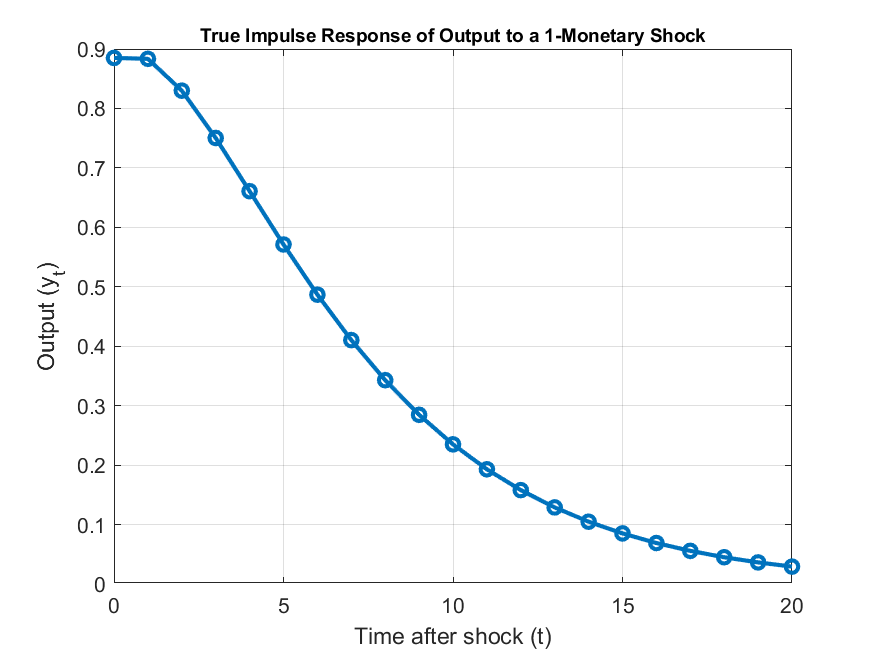
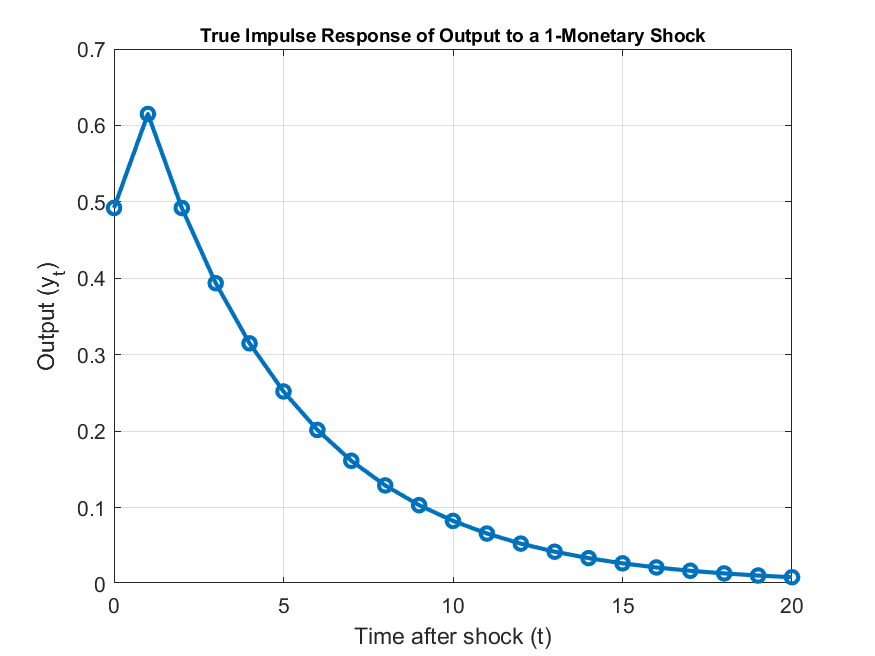
Upated parameters

diff --git a/PS1/ps1_3_misspec_irf.m b/PS1/ps1_3_misspec_irf.m
@@ -1,10 +1,10 @@
 clear all 
 
 % Parameters from previous solutions
-a = 0.701502; % 1.43991; 
-b = 0.262662; % -1.70648; 
-c = 0.885;
-d = 0.115;
+a = 0; %0.701502; % 1.43991; 
+b = 0.615; %0.262662; % -1.70648; 
+c = 0.492; %0.885;
+d = 0.115;  % Not used here since eta_t = 0
 rho = 0.8;
 T = 600; % I will burn the first 100
 N_sim = 500;

diff --git a/PS1/ps1_5_Jorda_cont_irf.m b/PS1/ps1_5_Jorda_cont_irf.m
@@ -1,10 +1,10 @@
 clear all 
 
 % Parameters from previous solutions
-a = 0.701502; % 1.43991; 
-b = 0.262662; % -1.70648; 
-c = 0.885;
-d = 0.115;
+a = 0; %0.701502; % 1.43991; 
+b = 0.615; %0.262662; % -1.70648; 
+c = 0.492; %0.885;
+d = 0.115;  % Not used here since eta_t = 0
 rho = 0.8;
 T = 600; % I will burn the first 100
 N_sim = 500;

diff --git a/PS1/ps1_4_eps6_irf.m b/PS1/ps1_4_eps6_irf.m
@@ -1,10 +1,10 @@
 clear all
 
 % Parameters from previous solutions
-a = 0.701502; % 1.43991; 
-b = 0.262662; % -1.70648; 
-c = 0.885;
-d = 0.115;
+a = 0; %0.701502; % 1.43991; 
+b = 0.615; %0.262662; % -1.70648; 
+c = 0.492; %0.885;
+d = 0.115;  % Not used here since eta_t = 0
 rho = 0.8;
 T = 600; % I will burn the first 100
 N_sim = 500;

diff --git a/PS1/ps1_4_monetary_irf.m b/PS1/ps1_4_monetary_irf.m
@@ -1,10 +1,10 @@
 clear all
 
 % Parameters from previous solutions
-a = 0.701502; % 1.43991; 
-b = 0.262662; % -1.70648; 
-c = 0.885;
-d = 0.115;
+a = 0; %0.701502; % 1.43991; 
+b = 0.615; %0.262662; % -1.70648; 
+c = 0.492; %0.885;
+d = 0.115;  % Not used here since eta_t = 0
 rho = 0.8;
 T = 600; % I will burn the first 100
 N_sim = 500;

diff --git a/PS1/ps1_5_Jorda_irf.m b/PS1/ps1_5_Jorda_irf.m
@@ -1,10 +1,10 @@
 clear all
 
 % Parameters from previous solutions
-a = 0.701502; % 1.43991; 
-b = 0.262662; % -1.70648; 
-c = 0.885;
-d = 0.115;
+a = 0; %0.701502; % 1.43991; 
+b = 0.615; %0.262662; % -1.70648; 
+c = 0.492; %0.885;
+d = 0.115;  % Not used here since eta_t = 0
 rho = 0.8;
 T = 600; % I will burn the first 100
 N_sim = 500;

diff --git a/PS1/ps1_2_true_irf.m b/PS1/ps1_2_true_irf.m
@@ -6,9 +6,9 @@ kappa = 0.13;
 rho = 0.8;
 
 % Coefficients from numerical solution (approximated)
-a = 0.701502; % 1.43991; 
-b = 0.262662; % -1.70648; 
-c = 0.885;
+a = 0; %0.701502; % 1.43991; 
+b = 0.615; %0.262662; % -1.70648; 
+c = 0.492; %0.885;
 d = 0.115;  % Not used here since eta_t = 0
 
 % Simulation settings
